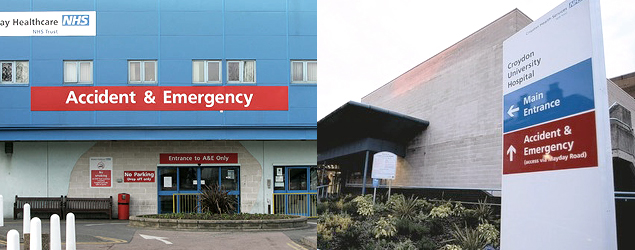
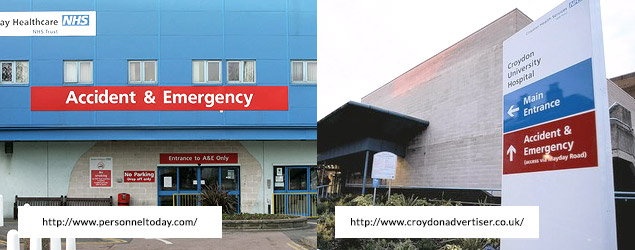
adds credit to ref photos

Changed region(s): [[0.5087, 0.812, 0.8677, 0.952], [0.0299, 0.812, 0.3591, 0.952]]

diff --git a/readme.md b/readme.md
@@ -2,7 +2,7 @@
 Deployed to `droom.io`. 
 
 
-This theme is based on the signage at Mayday hospital in my hometown.
+This theme is based on the signage at Mayday hospital.
 
 ![alt tag](https://raw.githubusercontent.com/droom/mayday/master/src/docs/ref.jpg)
 
